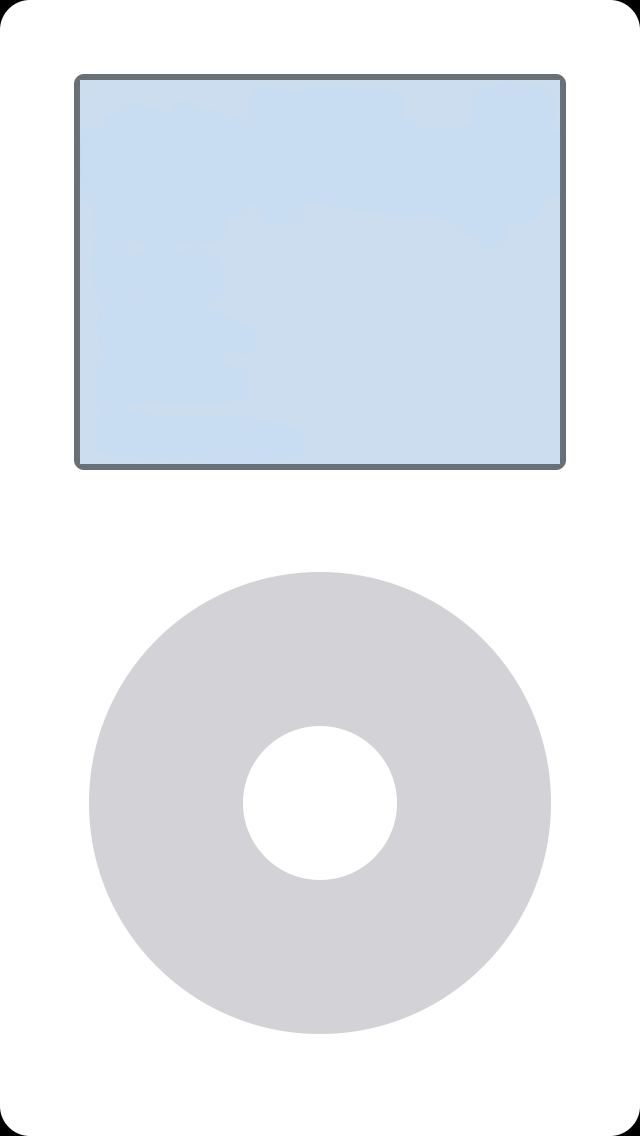
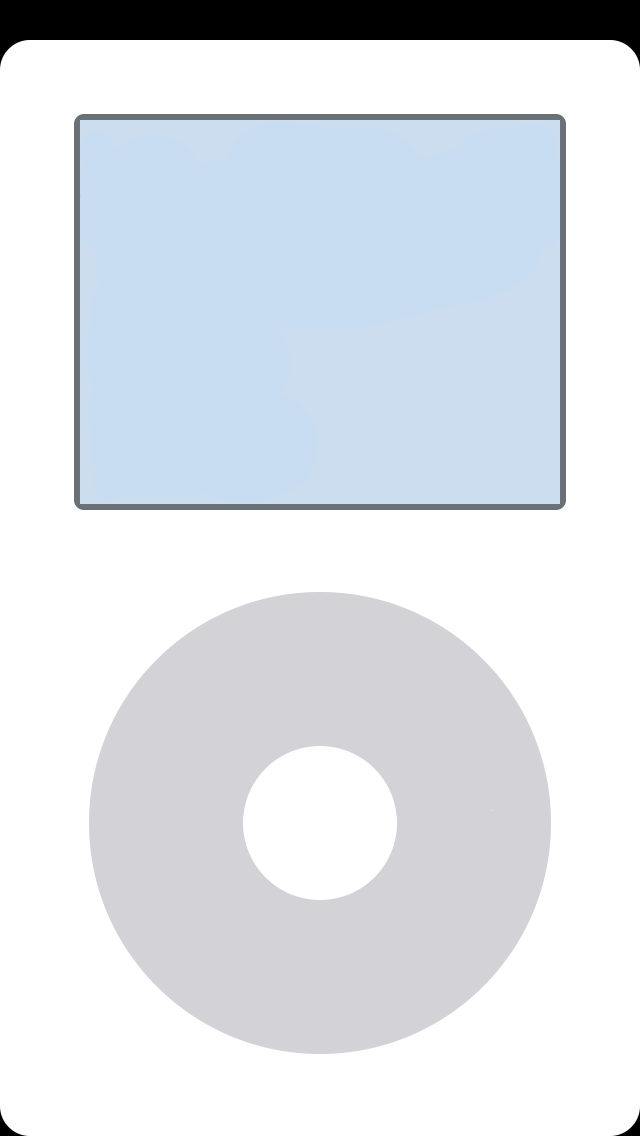
Add status bar to iPhone 5 to reduce the stretching

diff --git a/FourgyApp/AppDelegate.m b/FourgyApp/AppDelegate.m
@@ -20,7 +20,10 @@
 @synthesize window;
 
 - (BOOL)application:(UIApplication *)application didFinishLaunchingWithOptions:(NSDictionary *)launchOptions {
-	
+
+	if ([[UIScreen mainScreen] bounds].size.height > 480.0f)
+		[application setStatusBarHidden:NO withAnimation:UIStatusBarAnimationNone];
+
 	_musicModel = [DCTMusicModel new];
 	
 	MenuViewController *vc = [[MenuViewController alloc] initWithManagedObjectContext:_musicModel.managedObjectContext];
